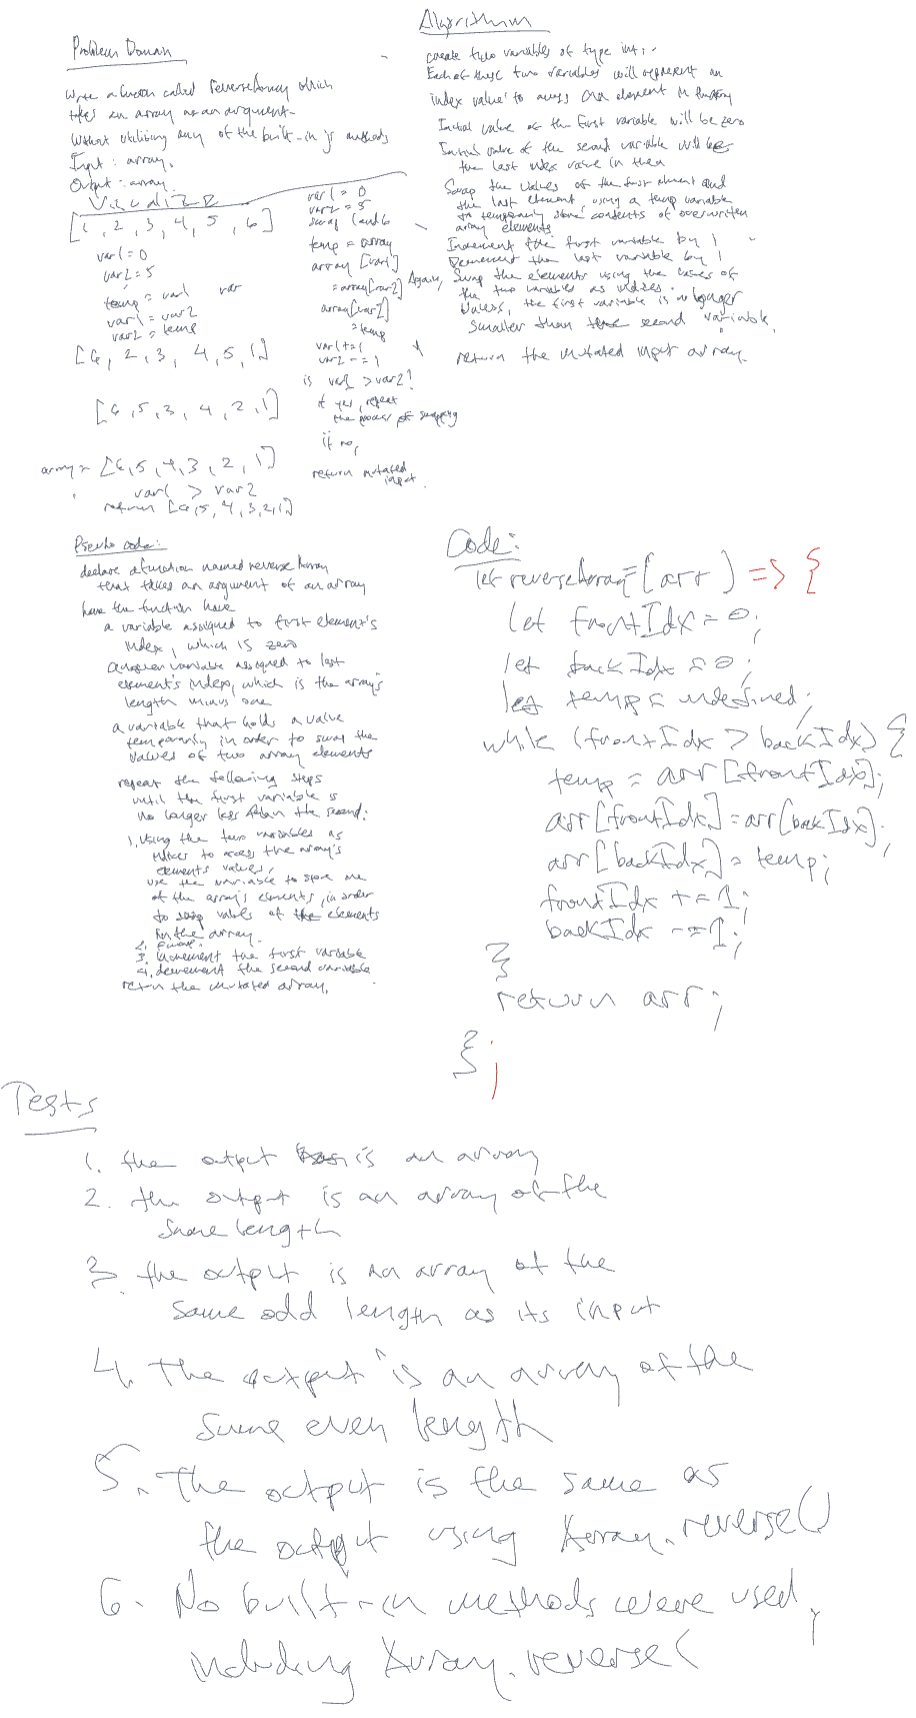
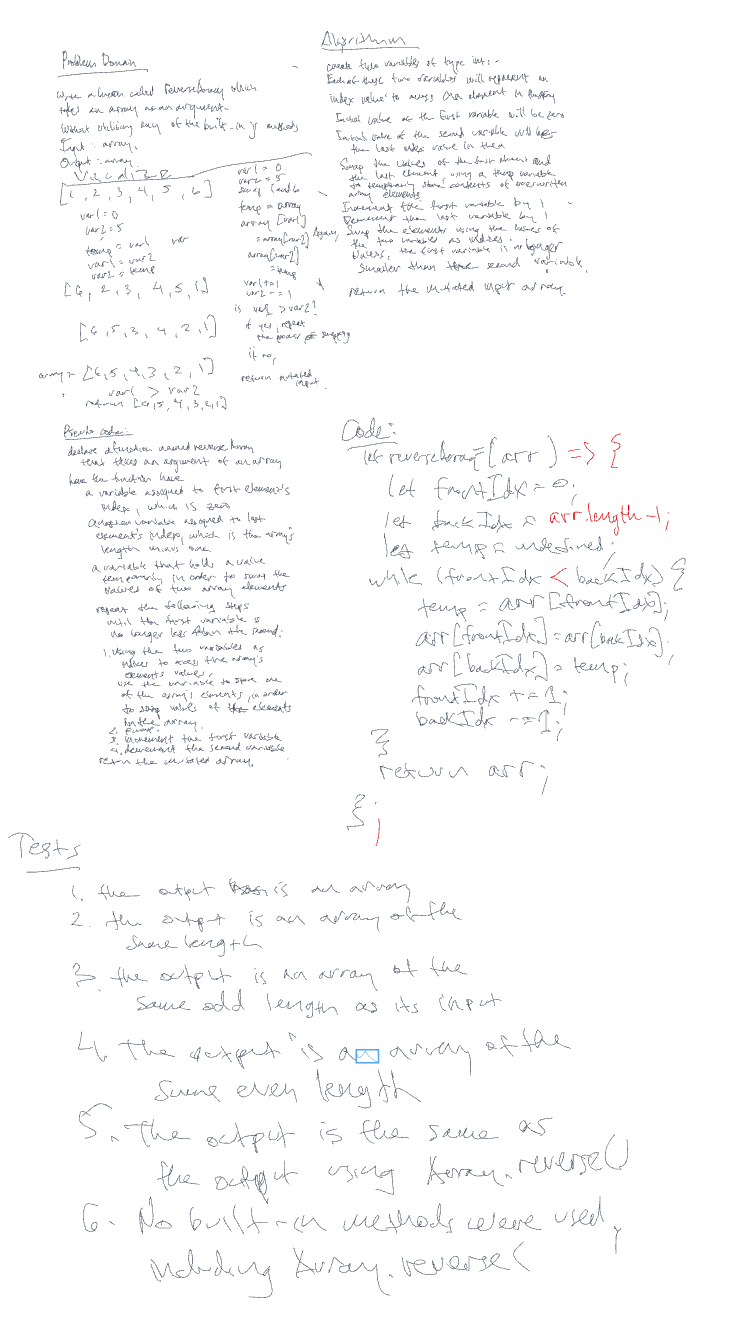
corrected syntax in code section of whiteboard

diff --git a/javascript/cf401/401-codechallenge-01/README.md b/javascript/cf401/401-codechallenge-01/README.md
@@ -1,6 +1,18 @@
 # Reverse an Array
 <!-- Description of the challenge -->
+## Feature Tasks
 Write a function called reverseArray which takes an array as an argument. Without utilizing any of the built-in methods available to your language, return an array with elements in reversed order.
+
+### Specifications
+Read all of the following instructions carefully.
+Name things exactly as described.
+Do all your work in a public repository called `data-structures-and-algorithms`.
+Create a new branch in your repo called `array-reverse`.
+Make a directory for this challenge, named according to your language’s conventions, containing a README.md file.
+Update the “Table of Contents” - in the README at the root of the repository - with a link to this challenge’s README file.
+NOTE: This challenge is whiteboard only
+Write out code as part of your whiteboard process, but don’t worry about creating external program files.
+Your final whiteboard should look like this example layout.
 
 ## Whiteboard Process
 <!-- Embedded whiteboard image -->
